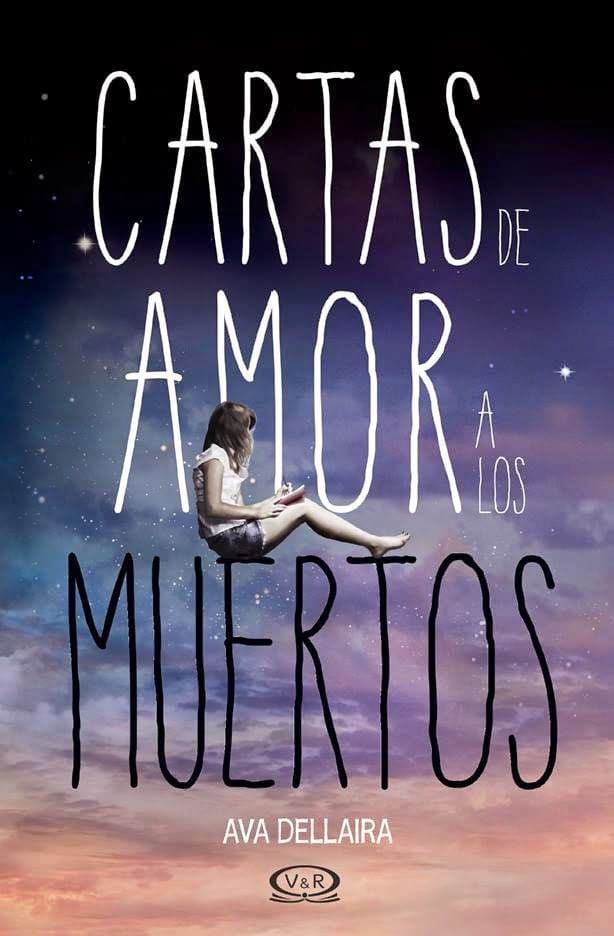
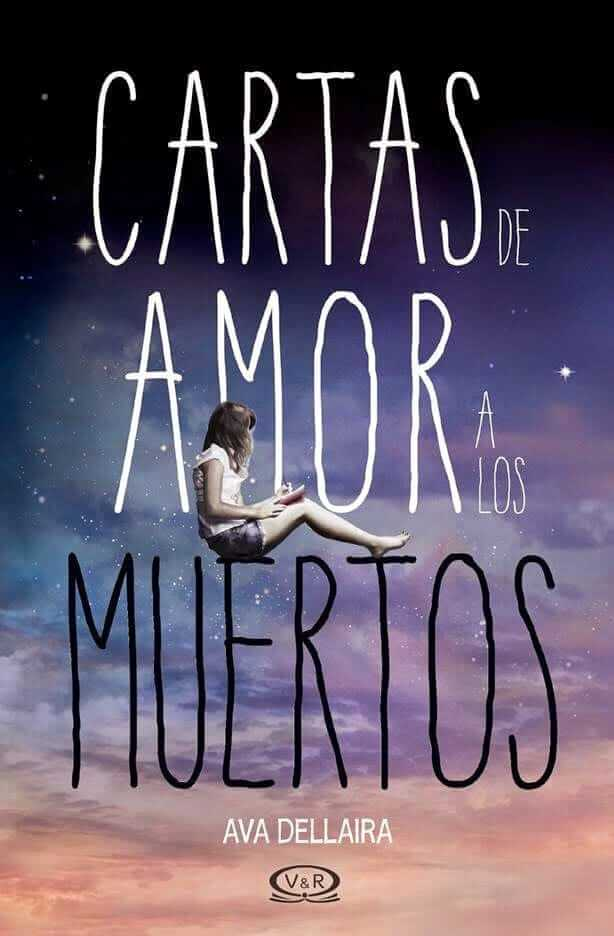
optimizando imagenes

Changed region(s): [[0.4951, 0.9295, 0.557, 0.9605]]

diff --git a/pages/top10.html b/pages/top10.html
@@ -37,10 +37,10 @@
         <div class="container-fluid">
             <ol class="row topmejorescontenedora">
                 <li class="col-sm-6 col-md-3 col-lg-2 topmejores">
-                    <img src="../imagenes/lacanciondellobo.jpeg" class="imgtopuno" alt="libro la cancion del lobo">
+                    <img src="../imagenes/lacanciondellobo.jpg" class="imgtopuno" alt="libro la cancion del lobo">
                 </li>
                 <li class="col-sm-6 col-md-3 col-lg-2 topmejores">
-                    <img src="../imagenes/ddd.jpeg" class="imgtopuno" alt="libro después de diciembre">
+                    <img src="../imagenes/ddd.jpg" class="imgtopuno" alt="libro después de diciembre">
                 </li>
                 <li class="col-sm-6 col-md-3 col-lg-2 topmejores">
                     <img src="../imagenes/cuandonoquedenmasestrellas.jpeg" class="imgtopuno" alt="Libro cuando no queden más estrellas que contar">
@@ -49,19 +49,19 @@
                     <img src="../imagenes/lachicadenieve.jpeg" class="imgtopuno"  alt="Libro la chica de nieve">
                 </li>
                 <li class="col-sm-6 col-md-3 col-lg-2 topmejores">
-                    <img src="../imagenes/eldiaquedejodenevar.jpeg" class="imgtopuno"  alt="Libro el día que dejó de nevar en Alaska">
+                    <img src="../imagenes/eldiaquedejo.jpg" class="imgtopuno"  alt="Libro el día que dejó de nevar en Alaska">
                 </li>
                 <li class="col-sm-6 col-md-3 col-lg-2 topmejores">
                     <img src="../imagenes/los7maridosdeevelynhugo.jpeg" class="imgtopuno" alt="Libro los 7 maridos de Evelyn Hugo">
                 </li>
                 <li class="col-sm-6 col-md-3 col-lg-2 topmejores">
-                    <img src="../imagenes/asesinodebrujas.jpeg" class="imgtopuno"  alt="Libro asesino de brujas">
+                    <img src="../imagenes/asesinodebrujas.jpg" class="imgtopuno"  alt="Libro asesino de brujas">
                 </li>
                 <li class="col-sm-6 col-md-3 col-lg-2 topmejores">
-                    <img src="../imagenes/eljuegodelalma.jpeg" class="imgtopuno"  alt="Libro el juego del alma">
+                    <img src="../imagenes/eljuegodelalma.jpg" class="imgtopuno"  alt="Libro el juego del alma">
                 </li>
                 <li class="col-sm-6 col-md-3 col-lg-2 topmejores">
-                    <img src="../imagenes/elchicoquedibujaba.jpeg" class="imgtopuno" alt="Libro el chico que dibujaba constelaciones">
+                    <img src="../imagenes/elchicoquedibujaba.jpg" class="imgtopuno" alt="Libro el chico que dibujaba constelaciones">
                 </li>
                 <li class="col-sm-6 col-md-3 col-lg-2 topmejores">
                     <img src="../imagenes/marfil.jpeg" class="imgtopuno"  alt="Libro marfil">

diff --git a/pages/novedades.html b/pages/novedades.html
@@ -48,21 +48,21 @@
                 <li class="col-sm-12 col-md-4 col-lg-3 noticiatres">
                     <h2 class="titulonoticiauno">Javier Castillo publicó un nuevo libro</h2>
                     <img src="../imagenes/elcucodecristal.jpg" width="200rem" height="200rem" alt="libro cuco de cristal">
-                    <p class="cuerponoticia">El día 01/02/2023 salió a la venta la nueva obra del escritor español.</p>
+                    <p class="cuerponoticia">El día 01/02/2023 salió a la venta la nueva obra del escritor español. Así como el resto de sus obras, el mismo tuvo un gran recibimiento en la comunidad lectora.</p>
                 </li>
                 <li class="col-sm-12 col-md-4 col-lg-3 noticiacuatro">
                     <h2 class="titulonoticiauno">Alice Kellen vuelve a las librerías</h2>
-                    <img src="../imagenes/dondetodobrilla.png" width="230rem" height="200rem" alt="Libro donde todo brilla">
+                    <img src="../imagenes/dondetodobrilla.jpg" width="170rem" height="200rem" alt="Libro donde todo brilla">
                     <p class="cuerponoticia">La famosa autora anunció que el día 23/03/2023 publicará su nuevo libro, "Donde todo brilla".</p>
                 </li>
                 <li class="col-sm-12 col-md-4 col-lg-3 noticiacinco">
                     <h2 class="titulonoticiauno">"Los 7 maridos de Evelyn Hugo" se adaptará a cine</h2>
-                    <img src="../imagenes/los7maridosnoticia.jpg" width="230rem" height="200rem" alt="Libro los 7 maridos de evelyn hugo">
+                    <img src="../imagenes/los7maridosnoticia.jpg" width="260rem" height="200rem" alt="Libro los 7 maridos de evelyn hugo">
                     <p class="cuerponoticia">Netflix confirmó que adaptará la novela a una película, aunque aún no se conoce una fecha de publicación.</p>
                 </li>
                 <li class="col-sm-12 col-md-4 col-lg-3 noticiaseis">
                     <h2 class="titulonoticiauno">Edición especial de "Nosotros en la luna"</h2>
-                    <img src="../imagenes/nosotrosenlaluna.jpg" width="230rem" height="200rem" alt="Libro nosotros en la luna">
+                    <img src="../imagenes/nosotrosenlaluna.jpg" width="260rem" height="200rem" alt="Libro nosotros en la luna">
                     <p class="cuerponoticia">La famosa y muy amada novela de Alice Kellen tiene una nueva edición que ya está a la venta. Además de una nueva portada, la misma tiene una encuadernación en tapa dura e incluye ilustraciones.</p>
                 </li>
             </ul>

diff --git a/pages/reseñas.html b/pages/reseñas.html
@@ -70,7 +70,7 @@
             </div>
             <div class="resenados">
                 <div>
-                    <img src="../imagenes/lacanciondellobo.jpeg" alt="Portada del libro la canción del lobo" class="imgresena1">
+                    <img src="../imagenes/lacanciondellobo.jpg" alt="Portada del libro la canción del lobo" class="imgresena1">
                     <div class="puntuacion">
                         <svg xmlns="http://www.w3.org/2000/svg" width="16" height="16" fill="currentColor" class="bi bi-star-fill" viewBox="0 0 16 16">
                             <path d="M3.612 15.443c-.386.198-.824-.149-.746-.592l.83-4.73L.173 6.765c-.329-.314-.158-.888.283-.95l4.898-.696L7.538.792c.197-.39.73-.39.927 0l2.184 4.327 4.898.696c.441.062.612.636.282.95l-3.522 3.356.83 4.73c.078.443-.36.79-.746.592L8 13.187l-4.389 2.256z"/>
@@ -102,7 +102,7 @@
             </div>
             <div class="resenatres">
                 <div>
-                    <img src="../imagenes/eldiaquedejodenevar.jpeg"  alt="Portada del libro el día que dejó de nevar en Alaska" class="imgresena1">
+                    <img src="../imagenes/eldiaquedejo.jpg"  alt="Portada del libro el día que dejó de nevar en Alaska" class="imgresena1">
                     <div class="puntuacion">
                         <svg xmlns="http://www.w3.org/2000/svg" width="16" height="16" fill="currentColor" class="bi bi-star-fill" viewBox="0 0 16 16">
                             <path d="M3.612 15.443c-.386.198-.824-.149-.746-.592l.83-4.73L.173 6.765c-.329-.314-.158-.888.283-.95l4.898-.696L7.538.792c.197-.39.73-.39.927 0l2.184 4.327 4.898.696c.441.062.612.636.282.95l-3.522 3.356.83 4.73c.078.443-.36.79-.746.592L8 13.187l-4.389 2.256z"/>

diff --git a/index.html b/index.html
@@ -42,13 +42,13 @@
             <div id="carouselExample" class="carousel slide">
       <div class="carousel-inner">
         <div class="carousel-item active">
-          <img src="imagenes/librosdos.jpeg" class="d-block w-100" alt="...">
+          <img src="imagenes/librosdos.jpg" class="d-block w-100" alt="Imagen de una biblioteca con libros">
         </div>
         <div class="carousel-item">
-          <img src="imagenes/librosuno.jpeg" class="d-block w-100" alt="...">
+          <img src="imagenes/librosuno.jpg" class="d-block w-100" alt="Imagen de una biblioteca con libros">
         </div>
         <div class="carousel-item">
-          <img src="imagenes/librostres.jpeg" class="d-block w-100" alt="...">
+          <img src="imagenes/librostres.jpg" class="d-block w-100" alt="Imagen de una biblioteca con libros">
         </div>
       </div>
       <button class="carousel-control-prev" type="button" data-bs-target="#carouselExample" data-bs-slide="prev">

diff --git a/scss/utilidades/_variables.scss b/scss/utilidades/_variables.scss
@@ -1,3 +1,3 @@
 $color-principal: #EBE2DD;
-$color-secundario: #E0C5B4;
+$color-secundario: #e0c5b4;
 $fuente: 'Merriweather', serif;
